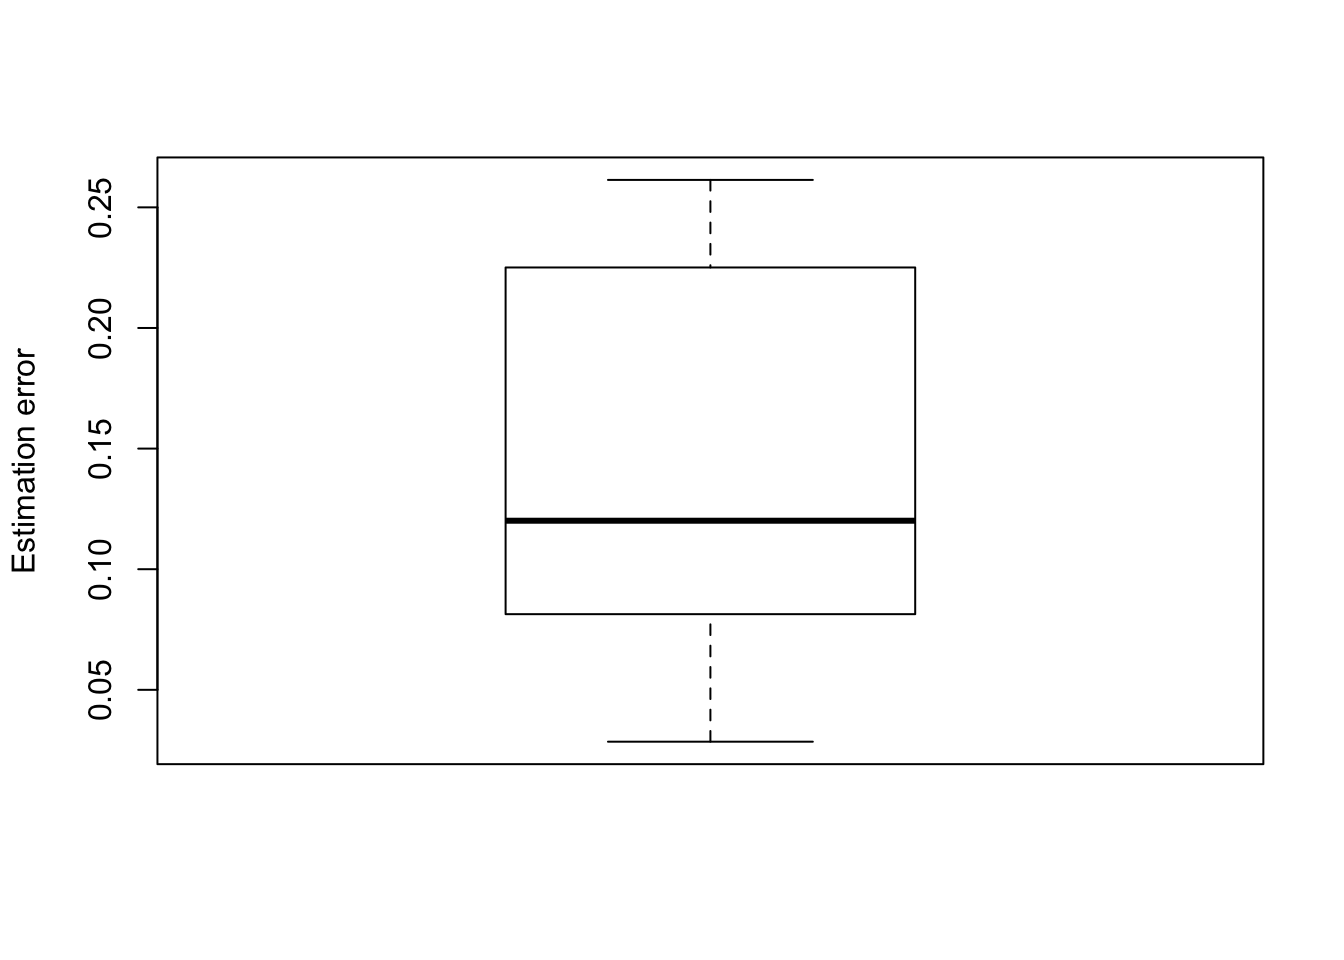
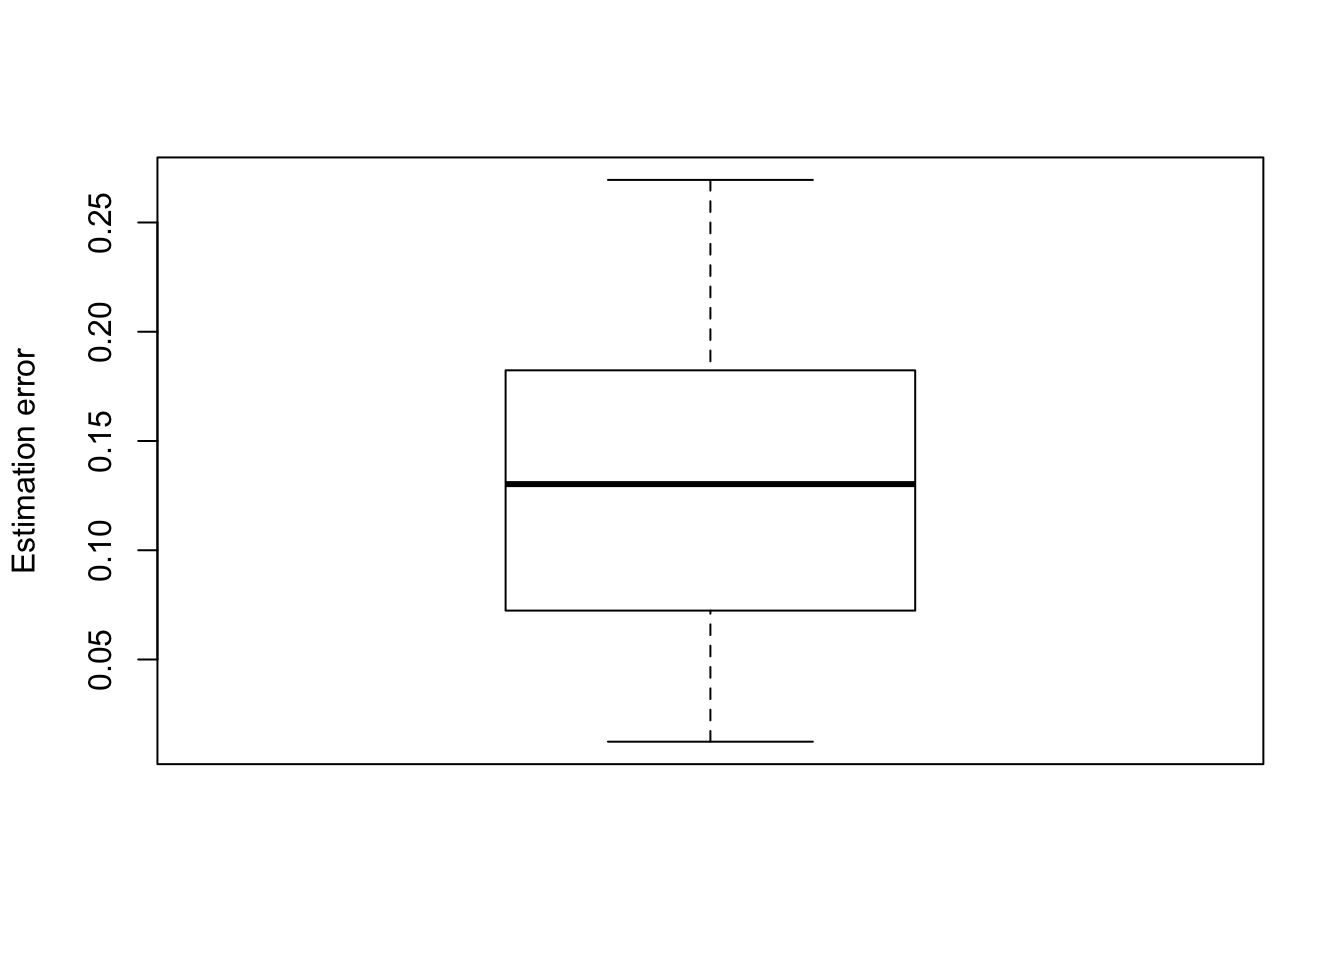
Fix plot bug

diff --git a/docs/articles/quickstart.html b/docs/articles/quickstart.html
@@ -72,7 +72,7 @@
       <h1>Quickstart</h1>
                         <h4 class="author">Kim Seonghyun</h4>
             
-            <h4 class="date">2017-10-23</h4>
+            <h4 class="date">2017-10-24</h4>
           </div>
 
     
@@ -131,22 +131,22 @@ mea_session &lt;-<span class="st"> </span><span class="dv">17</span>:<span class
 <p>If you hope to see details of those anomalies:</p>
 <div class="sourceCode"><pre class="sourceCode r"><code class="sourceCode r"><span class="kw"><a href="../reference/summarise_anomaly.html">summarise_anomaly</a></span>(.cbar, <span class="dt">.session =</span> <span class="st">"measurement"</span>)</code></pre></div>
 <pre><code>##               datetime     session    y point_pred lower_bound upper_bound
-## 1  2017-10-23 11:57:57 measurement 14.7   10.97548    6.356411    15.94858
-## 2  2017-10-23 11:58:57 measurement 32.4   24.74991   20.530531    29.38626
-## 3  2017-10-23 11:59:57 measurement 30.4   26.93936   21.655158    41.17835
-## 4  2017-10-23 12:00:57 measurement 33.9   25.72468   20.751510    31.14016
-## 5  2017-10-23 12:01:57 measurement 21.5   23.44197   18.656186    32.05812
-## 6  2017-10-23 12:02:57 measurement 15.5   17.45856   12.920333    21.59189
-## 7  2017-10-23 12:03:57 measurement 15.2   18.00819   13.696949    21.97175
-## 8  2017-10-23 12:04:57 measurement 13.3   14.47217    8.862853    20.57441
-## 9  2017-10-23 12:05:57 measurement 19.2   15.98521   11.589646    20.35926
-## 10 2017-10-23 12:06:57 measurement 27.3   25.29943   20.702220    29.99012
-## 11 2017-10-23 12:07:57 measurement 26.0   23.52828   16.786014    28.42930
-## 12 2017-10-23 12:08:57 measurement 30.4   23.89301    6.379521    30.85628
-## 13 2017-10-23 12:09:57 measurement 15.8   14.62143   -1.215653    23.10525
-## 14 2017-10-23 12:10:57 measurement 19.7   18.42955   -1.708063    24.94202
-## 15 2017-10-23 12:11:57 measurement 15.0   11.07934  -15.643002    20.32123
-## 16 2017-10-23 12:12:57 measurement 21.4   22.00993   17.671946    26.48306
+## 1  2017-10-24 15:36:05 measurement 14.7   10.73854    6.038530    15.48577
+## 2  2017-10-24 15:37:05 measurement 32.4   24.78351   20.909834    29.09613
+## 3  2017-10-24 15:38:05 measurement 30.4   26.65729   21.523477    32.15219
+## 4  2017-10-24 15:39:05 measurement 33.9   25.78222   21.015800    30.66371
+## 5  2017-10-24 15:40:05 measurement 21.5   23.18060   19.034322    27.79085
+## 6  2017-10-24 15:41:05 measurement 15.5   17.63011   13.531929    21.60156
+## 7  2017-10-24 15:42:05 measurement 15.2   18.00846   14.001904    21.90181
+## 8  2017-10-24 15:43:05 measurement 13.3   14.37214    8.894254    19.60739
+## 9  2017-10-24 15:44:05 measurement 19.2   16.05851   11.777362    20.09438
+## 10 2017-10-24 15:45:05 measurement 27.3   25.40571   20.875118    29.54783
+## 11 2017-10-24 15:46:05 measurement 26.0   24.04003   19.378786    29.14389
+## 12 2017-10-24 15:47:05 measurement 30.4   24.93038   18.421915    30.68980
+## 13 2017-10-24 15:48:05 measurement 15.8   15.60427    8.023787    23.12472
+## 14 2017-10-24 15:49:05 measurement 19.7   19.36796   12.986639    24.68691
+## 15 2017-10-24 15:50:05 measurement 15.0   12.40539    1.893594    21.03035
+## 16 2017-10-24 15:51:05 measurement 21.4   22.02740   17.812783    26.41346
 ##    anomaly
 ## 1    FALSE
 ## 2     TRUE
@@ -167,22 +167,22 @@ mea_session &lt;-<span class="st"> </span><span class="dv">17</span>:<span class
 <p>And if you rather want to check prediction performance:</p>
 <div class="sourceCode"><pre class="sourceCode r"><code class="sourceCode r"><span class="kw"><a href="../reference/summarise_pred_error.html">summarise_pred_error</a></span>(.cbar)</code></pre></div>
 <pre><code>##               datetime     session      diff       mape
-## 1  2017-10-23 11:57:57 measurement 3.7245168 0.25336849
-## 2  2017-10-23 11:58:57 measurement 7.6500870 0.23611380
-## 3  2017-10-23 11:59:57 measurement 3.4606439 0.11383697
-## 4  2017-10-23 12:00:57 measurement 8.1753166 0.24115978
-## 5  2017-10-23 12:01:57 measurement 1.9419658 0.09032399
-## 6  2017-10-23 12:02:57 measurement 1.9585596 0.12635868
-## 7  2017-10-23 12:03:57 measurement 2.8081939 0.18474960
-## 8  2017-10-23 12:04:57 measurement 1.1721702 0.08813310
-## 9  2017-10-23 12:05:57 measurement 3.2147939 0.16743718
-## 10 2017-10-23 12:06:57 measurement 2.0005738 0.07328109
-## 11 2017-10-23 12:07:57 measurement 2.4717151 0.09506597
-## 12 2017-10-23 12:08:57 measurement 6.5069945 0.21404587
-## 13 2017-10-23 12:09:57 measurement 1.1785677 0.07459289
-## 14 2017-10-23 12:10:57 measurement 1.2704532 0.06449001
-## 15 2017-10-23 12:11:57 measurement 3.9206634 0.26137756
-## 16 2017-10-23 12:12:57 measurement 0.6099254 0.02850119</code></pre>
+## 1  2017-10-24 15:36:05 measurement 3.9614574 0.26948690
+## 2  2017-10-24 15:37:05 measurement 7.6164948 0.23507700
+## 3  2017-10-24 15:38:05 measurement 3.7427063 0.12311534
+## 4  2017-10-24 15:39:05 measurement 8.1177782 0.23946248
+## 5  2017-10-24 15:40:05 measurement 1.6806032 0.07816759
+## 6  2017-10-24 15:41:05 measurement 2.1301150 0.13742677
+## 7  2017-10-24 15:42:05 measurement 2.8084577 0.18476695
+## 8  2017-10-24 15:43:05 measurement 1.0721399 0.08061202
+## 9  2017-10-24 15:44:05 measurement 3.1414881 0.16361917
+## 10 2017-10-24 15:45:05 measurement 1.8942944 0.06938807
+## 11 2017-10-24 15:46:05 measurement 1.9599693 0.07538343
+## 12 2017-10-24 15:47:05 measurement 5.4696192 0.17992168
+## 13 2017-10-24 15:48:05 measurement 0.1957334 0.01238819
+## 14 2017-10-24 15:49:05 measurement 0.3320350 0.01685457
+## 15 2017-10-24 15:50:05 measurement 2.5946141 0.17297427
+## 16 2017-10-24 15:51:05 measurement 0.6274047 0.02931798</code></pre>
 <p>to visualise:</p>
 <div class="sourceCode"><pre class="sourceCode r"><code class="sourceCode r"><span class="kw"><a href="../reference/plot_error.html">plot_error</a></span>(.cbar, <span class="dt">method =</span> <span class="st">"mape"</span>)</code></pre></div>
 <p><img src="quickstart_files/figure-html/unnamed-chunk-11-1.png" width="672"></p>
@@ -194,7 +194,7 @@ mea_session &lt;-<span class="st"> </span><span class="dv">17</span>:<span class
 <p>To see those indicators:</p>
 <div class="sourceCode"><pre class="sourceCode r"><code class="sourceCode r"><span class="kw"><a href="../reference/summarise_incprob.html">summarise_incprob</a></span>(.cbar)</code></pre></div>
 <pre><code>##        hp        wt 
-## 0.7523384 1.0000000</code></pre>
+## 0.6446197 1.0000000</code></pre>
 <p>to visualise:</p>
 <div class="sourceCode"><pre class="sourceCode r"><code class="sourceCode r"><span class="kw"><a href="../reference/plot_incprob.html">plot_incprob</a></span>(.cbar)</code></pre></div>
 <p><img src="quickstart_files/figure-html/unnamed-chunk-13-1.png" width="672"></p>

diff --git a/docs/reference/plot_error_.html b/docs/reference/plot_error_.html
@@ -6,7 +6,7 @@
 <meta http-equiv="X-UA-Compatible" content="IE=edge">
 <meta name="viewport" content="width=device-width, initial-scale=1.0">
 
-<title>Print inclusion probablity plot — plot_incprob • cbar</title>
+<title>Print estimation error plot — plot_error_ • cbar</title>
 
 <!-- jquery -->
 <script src="https://code.jquery.com/jquery-3.1.0.min.js" integrity="sha384-nrOSfDHtoPMzJHjVTdCopGqIqeYETSXhZDFyniQ8ZHcVy08QesyHcnOUpMpqnmWq" crossorigin="anonymous"></script>
@@ -92,52 +92,40 @@
       <div class="row">
   <div class="col-md-9 contents">
     <div class="page-header">
-    <h1>Print inclusion probablity plot</h1>
+    <h1>Print estimation error plot</h1>
     </div>
 
     
-    <p>Print inclusion probablity plot</p>
+    <p>Print estimation error plot</p>
     
 
-    <pre class="usage"><span class='fu'>plot_incprob</span>(<span class='no'>.cbar</span>, <span class='kw'>threshold</span> <span class='kw'>=</span> <span class='fl'>0.1</span>, <span class='kw'>horiz</span> <span class='kw'>=</span> <span class='no'>T</span>, <span class='kw'>cex.names</span> <span class='kw'>=</span> <span class='fl'>0.5</span>,
-  <span class='kw'>xlab</span> <span class='kw'>=</span> <span class='st'>"Inclusion probability (%)"</span>, <span class='kw'>las</span> <span class='kw'>=</span> <span class='fl'>1</span>, <span class='no'>...</span>)</pre>
+    <pre class="usage"><span class='fu'>plot_error_</span>(<span class='no'>.error</span>, <span class='kw'>xlab</span> <span class='kw'>=</span> <span class='st'>""</span>, <span class='kw'>ylab</span> <span class='kw'>=</span> <span class='st'>"Estimation error"</span>, <span class='kw'>method</span> <span class='kw'>=</span> <span class='st'>"diff"</span>,
+  <span class='no'>...</span>)</pre>
     
     <h2 class="hasAnchor" id="arguments"><a class="anchor" href="#arguments"></a> Arguments</h2>
     <table class="ref-arguments">
     <colgroup><col class="name" /><col class="desc" /></colgroup>
     <tr>
-      <th>.cbar</th>
-      <td><p>cbar object</p></td>
-    </tr>
-    <tr>
-      <th>threshold</th>
-      <td><p>a threhold for inclusion probablity</p></td>
-    </tr>
-    <tr>
-      <th>horiz</th>
-      <td><p>horiz</p></td>
-    </tr>
-    <tr>
-      <th>cex.names</th>
-      <td><p>cex.names</p></td>
+      <th>.error</th>
+      <td><p>error data frame</p></td>
     </tr>
     <tr>
       <th>xlab</th>
-      <td><p>xlab</p></td>
+      <td><p>a label for x-axis</p></td>
     </tr>
     <tr>
-      <th>las</th>
-      <td><p>las</p></td>
+      <th>ylab</th>
+      <td><p>a label for y-ayis</p></td>
+    </tr>
+    <tr>
+      <th>method</th>
+      <td><p>diff</p></td>
     </tr>
     <tr>
       <th>...</th>
-      <td><p>params for barplot</p></td>
+      <td><p>params for boxplot</p></td>
     </tr>
     </table>
-    
-    <h2 class="hasAnchor" id="value"><a class="anchor" href="#value"></a>Value</h2>
-
-    <p><code>boxplot</code> object</p>
     
 
   </div>
@@ -145,9 +133,7 @@
     <h2>Contents</h2>
     <ul class="nav nav-pills nav-stacked">
       <li><a href="#arguments">Arguments</a></li>
-      
-      <li><a href="#value">Value</a></li>
-          </ul>
+                </ul>
 
   </div>
 </div>

diff --git a/docs/reference/plot_incprob_.html b/docs/reference/plot_incprob_.html
@@ -6,7 +6,7 @@
 <meta http-equiv="X-UA-Compatible" content="IE=edge">
 <meta name="viewport" content="width=device-width, initial-scale=1.0">
 
-<title>Print inclusion probablity plot — plot_incprob • cbar</title>
+<title>Print inclusion probablity plot — plot_incprob_ • cbar</title>
 
 <!-- jquery -->
 <script src="https://code.jquery.com/jquery-3.1.0.min.js" integrity="sha384-nrOSfDHtoPMzJHjVTdCopGqIqeYETSXhZDFyniQ8ZHcVy08QesyHcnOUpMpqnmWq" crossorigin="anonymous"></script>
@@ -99,15 +99,15 @@
     <p>Print inclusion probablity plot</p>
     
 
-    <pre class="usage"><span class='fu'>plot_incprob</span>(<span class='no'>.cbar</span>, <span class='kw'>threshold</span> <span class='kw'>=</span> <span class='fl'>0.1</span>, <span class='kw'>horiz</span> <span class='kw'>=</span> <span class='no'>T</span>, <span class='kw'>cex.names</span> <span class='kw'>=</span> <span class='fl'>0.5</span>,
+    <pre class="usage"><span class='fu'>plot_incprob_</span>(<span class='no'>.incprob</span>, <span class='kw'>threshold</span> <span class='kw'>=</span> <span class='fl'>0.1</span>, <span class='kw'>horiz</span> <span class='kw'>=</span> <span class='no'>T</span>, <span class='kw'>cex.names</span> <span class='kw'>=</span> <span class='fl'>0.5</span>,
   <span class='kw'>xlab</span> <span class='kw'>=</span> <span class='st'>"Inclusion probability (%)"</span>, <span class='kw'>las</span> <span class='kw'>=</span> <span class='fl'>1</span>, <span class='no'>...</span>)</pre>
     
     <h2 class="hasAnchor" id="arguments"><a class="anchor" href="#arguments"></a> Arguments</h2>
     <table class="ref-arguments">
     <colgroup><col class="name" /><col class="desc" /></colgroup>
     <tr>
-      <th>.cbar</th>
-      <td><p>cbar object</p></td>
+      <th>.incprob</th>
+      <td><p>data frame</p></td>
     </tr>
     <tr>
       <th>threshold</th>

diff --git a/docs/reference/plot_error.html b/docs/reference/plot_error.html
@@ -110,16 +110,20 @@
       <td><p>cbar object</p></td>
     </tr>
     <tr>
+      <th>xlab</th>
+      <td><p>a label for x-axis</p></td>
+    </tr>
+    <tr>
+      <th>ylab</th>
+      <td><p>a label for y-ayis</p></td>
+    </tr>
+    <tr>
       <th>method</th>
       <td><p>diff</p></td>
     </tr>
     <tr>
-      <th>x_label</th>
-      <td><p>a label for x-axis</p></td>
-    </tr>
-    <tr>
-      <th>y_label</th>
-      <td><p>a label for y-ayis</p></td>
+      <th>...</th>
+      <td><p>params for boxplot</p></td>
     </tr>
     </table>
     

diff --git a/docs/articles/contextual-anomaly.html b/docs/articles/contextual-anomaly.html
@@ -72,7 +72,7 @@
       <h1>Contextual anomaly</h1>
                         <h4 class="author">Kim Seonghyun</h4>
             
-            <h4 class="date">2017-10-23</h4>
+            <h4 class="date">2017-10-24</h4>
           </div>
 
     
